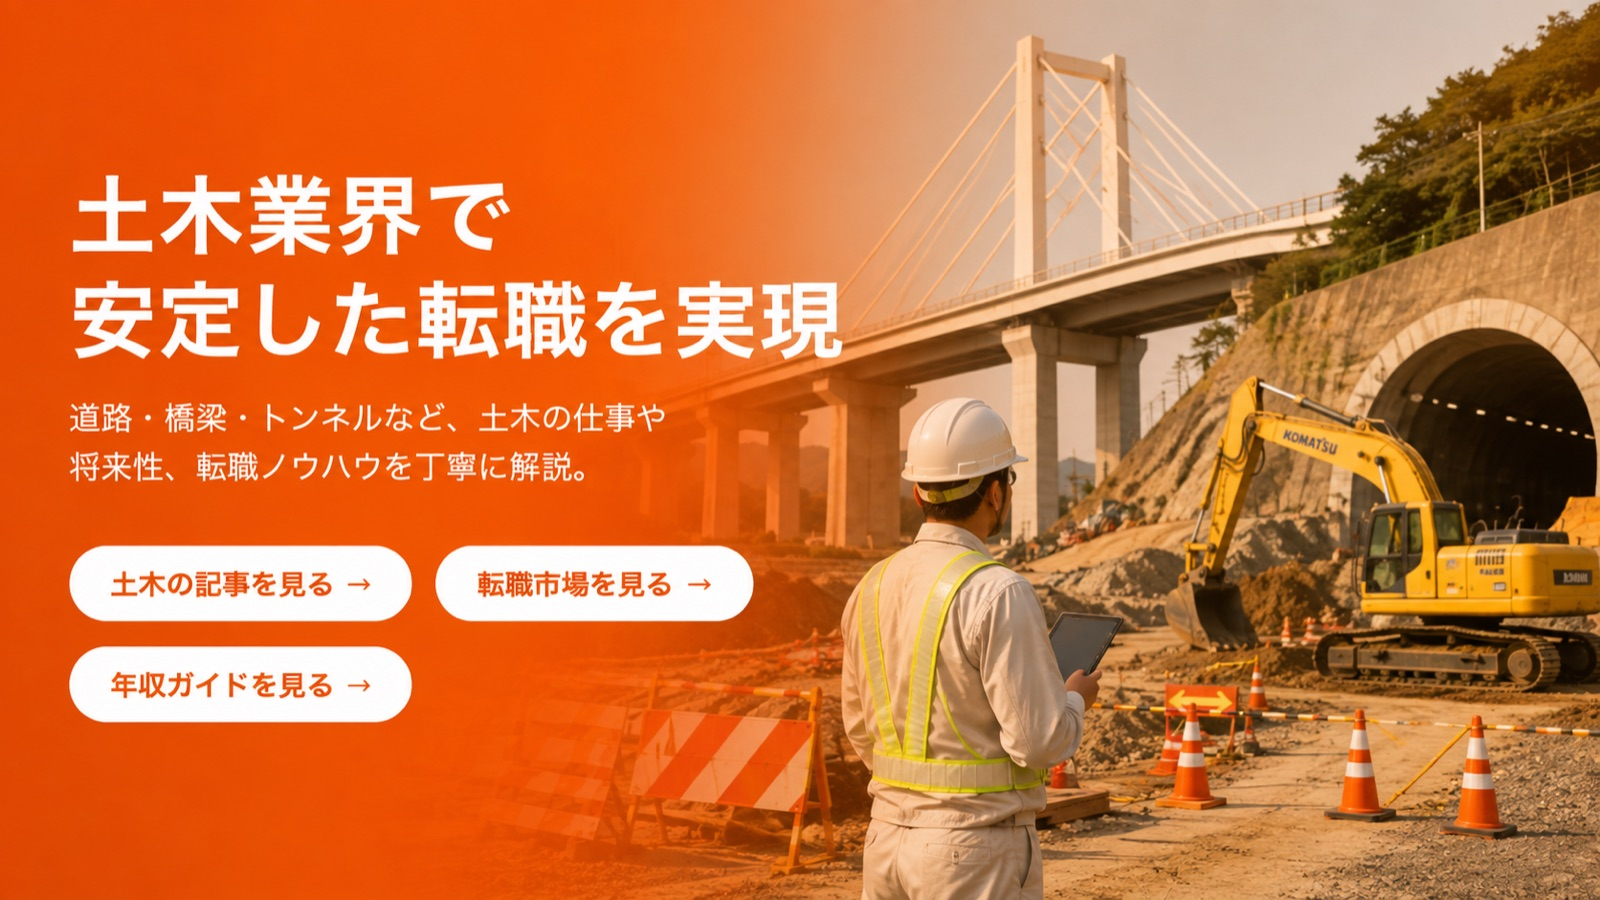
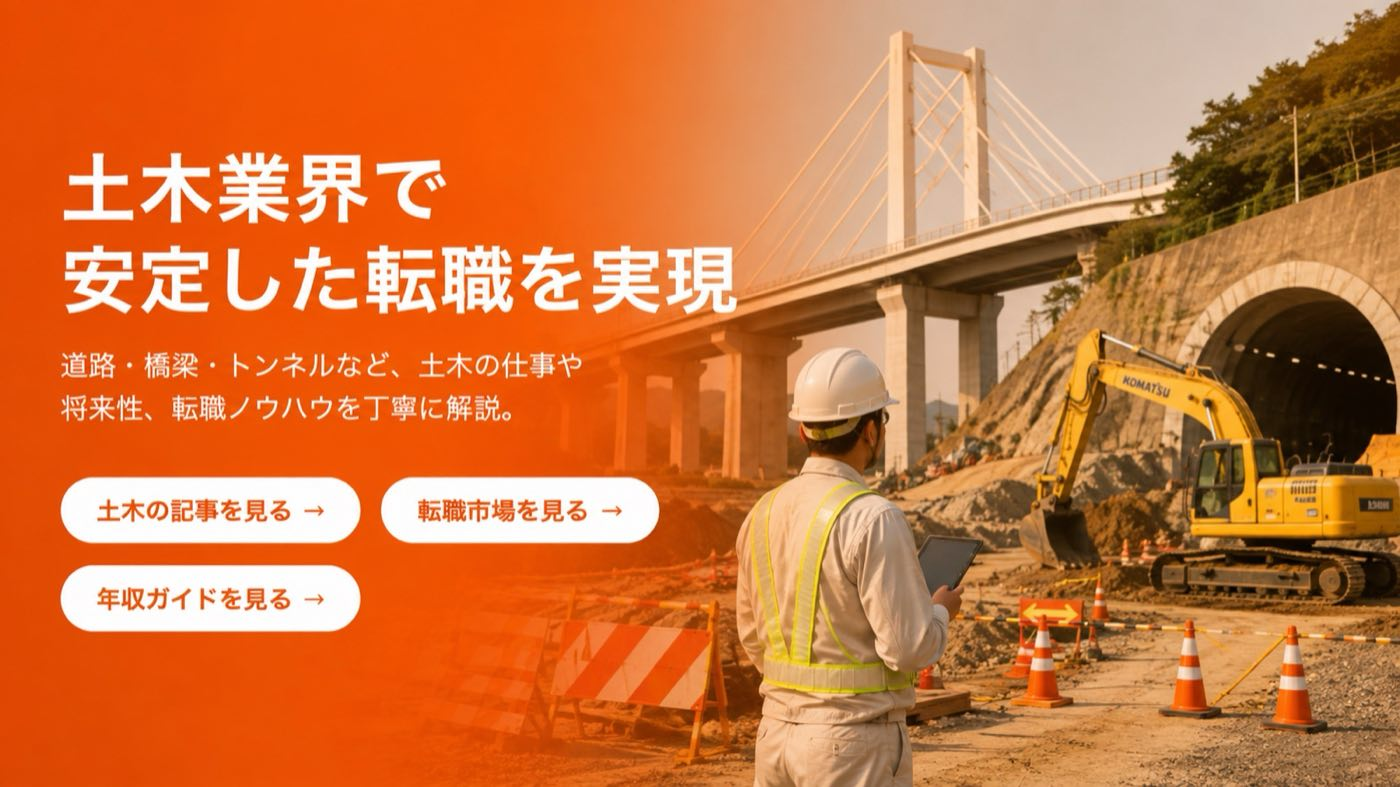
Perf + SEO fixes and 3 new articles
- Compress hero images 330-360KB -> 141-160KB (LCP fix)
- Retitle 土木ランキング to 2026年版9選; add internal links from 11 civil articles
- New: 長雨に強い仕事8選・土木の会社選び7チェック・倉庫物流ガイド

diff --git a/tools/add_text.py b/tools/add_text.py
@@ -74,6 +74,9 @@ TEXTS = {
     "plant-career": ("プラントで働く", "乙4から始まる高待遇の世界"),
     "gaikou-career": ("外構職人になる", "家まわりを仕上げる仕事"),
     "kasen-gogan-career": ("河川・護岸工事の仕事", "水害から街を守る"),
+    "nagame-osusume-shigoto": ("雨に強い仕事8選", "長雨でも収入が止まらない"),
+    "doboku-kaisha-erabi": ("土木の会社選び", "失敗しない7つのチェック"),
+    "soko-butsuryu-career": ("倉庫・物流で働く", "雨に強い屋内ワーク"),
 }
 
 def fit_font(draw, text, path, start, max_w):

diff --git a/content/posts/civil/doboku-kaisha-erabi.md b/content/posts/civil/doboku-kaisha-erabi.md
@@ -1,0 +1,70 @@
+---
+title: 土木の転職で失敗しない会社選び｜求人票と面接で見るべき7つのチェックポイント
+date: 2026-09-16
+excerpt: 同じ「土木作業員募集」でも、会社によって待遇と将来は大きく変わります。求人票の読み方から面接での質問まで、入ってから後悔しないための7つのチェックポイントを解説します。
+category: civil
+coverImage: /images/thumbs/doboku-kaisha-erabi.jpg
+tags: [会社選び, 求人票, 転職失敗回避, 土木]
+---
+
+## 職種選びの次は「会社選び」で差がつく
+
+[おすすめ職種ランキング](/blog/civil/doboku-osusume-shokushu)で入り口を決めたら、次は会社選びです。土木は**同じ職種でも会社によって「育ててくれる度合い」と「手取りの安定度」がまるで違う**業界。7つのチェックポイントで見極めましょう。
+
+## チェック1: 社会保険が完備されているか
+
+- 雇用保険・健康保険・厚生年金・労災の4点は**加入が大前提**
+- 「日給は高いが保険なし」の会社は、手取りが多く見えても長期では確実に損です([一人親方の損得](/blog/construction/hitorioyakata-guide)と同じ構図)
+- 求人票の「各種保険完備」の文言と、面接での「入社日から加入ですか」の確認をセットで
+
+## チェック2: 資格取得支援の「中身」
+
+「資格取得支援あり」は今や書いてあって当たり前。**中身を面接で聞く**のが本番です。
+
+- 費用は全額会社負担か、合格後の返金型か
+- **講習は勤務扱い(給料が出る)か、休日扱いか**
+- 直近1年で社員に取らせた資格の実績を聞くと、本気度が一発で分かります([最初に取るべき資格](/shikaku))
+
+## チェック3: 雨天・冬期の収入の扱い
+
+- 日給制なら**雨天休工時の扱い(無給か、手当か、振替作業か)**は最重要確認事項([長雨の時期の考え方](/blog/market/nagame-osusume-shigoto))
+- 月給制・日給月給制・稼働保証の有無で、年収の「ブレ幅」が決まります
+- [河川工事](/blog/civil/kasen-gogan-career)のように冬が本番の会社は、季節の谷が小さい傾向
+
+## チェック4: 工事の種類——公共が主体か
+
+- **公共工事主体の会社は、社会保険・安全管理・支払いが総じて堅実**(発注者のチェックが入るため)
+- 経営事項審査(経審)を受けている、施工実績に県や市の工事がある、が目印
+- 民間主体でも優良企業は多いですが、見極めの難易度は上がります
+
+## チェック5: 教育体制と若手の定着
+
+- 「未経験歓迎」なのに**教育係や研修の説明がない**会社は要注意
+- 面接で「入社後最初の1ヶ月は何をしますか」と聞いて、具体的に答えられるか
+- 20〜30代の社員が定着しているかは、職場環境の最良のバロメーターです
+
+## チェック6: 現場までの移動と拘束時間
+
+- 集合場所→現場の移動時間は**給料に含まれるか**(片道1時間超の無給移動は実質の時給を大きく下げます)
+- 直行直帰の可否、車両・燃料の負担も確認を
+
+## チェック7: 危険な匂いのする求人を避ける
+
+- 「日当3万円!未経験OK!」など**相場から浮いた好条件だけを連呼する求人**
+- 面接なしの即決、契約書を渡さない、現場や事務所を見せたがらない
+- 常に同じ求人が出続けている(=人が定着していない)
+
+[災害復旧](/blog/civil/saigai-fukkyu-jobs)などの特需時は特に、この手の募集が紛れ込みやすくなります。
+
+## 面接で聞いてよい質問リスト
+
+1. 「雨で休工の場合の給与の扱いを教えてください」
+2. 「資格取得支援は、講習日も出勤扱いになりますか」
+3. 「入社後の最初の1ヶ月の流れを教えてください」
+4. 「繁忙期の残業と休日はどのくらいですか」([土木の繁忙期](/blog/civil/autumn-doboku-season))
+
+これらは「意識の高い応募者」の質問であって、失礼ではありません。まともな会社ほど、きちんと答えてくれます。
+
+## まとめ
+
+土木の会社選びは「保険・資格支援の中身・雨天時の扱い・公共比率・教育・移動・危険な求人回避」の7チェックで、入社後の後悔をほぼ防げます。求人票で絞り、面接の質問で確かめる——[職種ランキング](/blog/civil/doboku-osusume-shokushu)と[職務経歴書ガイド](/blog/construction/resume-guide)、[面接対策](/blog/factory/factory-interview-guide)と合わせて、納得の転職につなげてください。

diff --git a/content/posts/factory/soko-butsuryu-career.md b/content/posts/factory/soko-butsuryu-career.md
@@ -1,0 +1,69 @@
+---
+title: 倉庫・物流センターの仕事ガイド｜雨に強い屋内ワーク、年末繁忙期前が入りどき
+date: 2026-09-16
+excerpt: ピッキング・仕分け・検品・フォークリフト——EC時代に伸び続ける倉庫・物流センターの仕事。時給相場とキャリアの伸ばし方、年末繁忙期前の今が狙い目の理由を解説します。
+category: factory
+coverImage: /images/thumbs/soko-butsuryu-career.jpg
+tags: [倉庫, 物流センター, ピッキング, 屋内作業]
+---
+
+## 倉庫・物流センターの仕事とは?
+
+ECの拡大で「モノを保管し、仕分け、送り出す」現場は増え続けています。主な仕事は:
+
+- **ピッキング**: リストやハンディ端末に従って商品を集める
+- **仕分け・梱包**: 方面別・店舗別に分け、梱包して出荷へ
+- **検品**: 入荷商品の数量・状態チェック([検査の仕事](/blog/factory/kensa-kenpin-career)と地続き)
+- **フォークリフト**: パレット単位の入出庫([フォークリフト完全ガイド](/blog/factory/forklift-career))
+- **在庫管理・事務**: ロケーション管理、入出荷データの処理
+
+**完全屋内+冷暖房のある倉庫も増えており、[長雨の時期](/blog/market/nagame-osusume-shigoto)も収入がブレない**のが現場系との大きな違いです。
+
+## 時給・年収の相場
+
+| 働き方 | 収入目安 |
+|--------|---------|
+| ピッキング・仕分け(未経験) | 時給1,150〜1,350円 |
+| フォークリフトオペレーター | 時給1,300〜1,700円 |
+| 夜勤帯(22時〜5時) | 上記+25%割増([夜勤の実際](/blog/factory/night-shift-guide)) |
+| 正社員(現場リーダー) | 年収350〜450万円 |
+| センター管理者・運行管理 | 年収450〜600万円 |
+
+10月からの[最低賃金発効](/blog/factory/jikyu-up-checklist)で時給帯は全体に底上げされます。**繁忙期は時給アップ・入社祝い金つきの募集も増える**ため、比較して選べる時期です。
+
+## なぜ「年末繁忙期前の今」が入りどきなのか
+
+物流の最繁忙期は**11月〜12月**(セール・歳暮・クリスマス・年末年始準備)です。
+
+1. **9〜10月は増員採用の最盛期**: 繁忙期を教育済みの人員で迎えたい会社が、今まとめて採用します
+2. **落ち着いた時期に仕事を覚えられる**: 11月に入ってからの入社だと、いきなり戦場です
+3. **短期で試せる**: 繁忙期だけの短期契約から入り、合えば長期・正社員へ切り替える道も定番です
+
+[年末商戦に向けた工場の動き](/blog/factory/september-factory-jobs)と同じ理屈で、**逆算するなら今月の応募がベスト**です。
+
+## キャリアの伸ばし方
+
+倉庫は「誰でも入れるが、伸ばし方で差がつく」職場です。
+
+1. **フォークリフト資格を取る**: 時給が一段上がり、任される仕事が変わる。最大4〜5日の講習([取り方](/blog/factory/forklift-career))
+2. **リーダー・管理側へ**: 人員配置・進捗管理を担う現場リーダーから、センター管理者へ
+3. **在庫・データ側へ**: ハンディやWMS(倉庫管理システム)の扱いに強くなると、事務系へ広がる([生産管理](/blog/factory/seisan-kanri-career)と似た「現場を知る管理側」ルート)
+4. **運行管理者(貨物)**: トラック運行の管理資格。物流業界で長く効く国家資格です
+
+## 大変な面と向いている人
+
+### 大変な面
+
+- 歩く量が多い(ピッキングは1日1万歩超も普通。逆に運動になると割り切る人も)
+- 繁忙期は物量との勝負になる
+- 冷凍・冷蔵倉庫は寒さ対策が必要(その分時給は高め)
+
+### 向いている人
+
+- 天候や現場ガチャに左右されず、**安定したペースで働きたい**
+- 黙々と体を動かす仕事が好き
+- 資格や役割で着実にステップアップしたい
+
+## まとめ
+
+倉庫・物流センターは、EC時代に仕事が増え続ける「雨に強い屋内ワーク」です。年末繁忙期前の9〜10月は採用の最盛期で、教育を受けながら入れる残り少ないタイミング。まずはピッキングから入り、フォークリフト資格で時給を上げ、リーダー・管理側へ——という積み上げがしやすい、堅実な選択肢です。工場系全体との比較は[工場転職完全ガイド](/blog/factory/job-beginners-guide)をどうぞ。

diff --git a/content/posts/market/nagame-osusume-shigoto.md b/content/posts/market/nagame-osusume-shigoto.md
@@ -1,0 +1,52 @@
+---
+title: 長雨で現場が止まる…雨に強い仕事・案件おすすめ8選｜日給制の収入を守る方法も
+date: 2026-09-16
+excerpt: 秋雨や台風で休工が続くと、日給制の収入は直撃を受けます。雨でも止まらない屋内系の仕事・案件8選と、今の仕事のまま収入を守る現実的な対策をまとめました。
+category: market
+coverImage: /images/thumbs/nagame-osusume-shigoto.jpg
+tags: [長雨, 雨天休工, 屋内作業, 収入安定]
+---
+
+## 長雨の時期、日給制の現場は収入が直撃される
+
+秋雨前線や台風で雨の日が続くと、屋外の現場は休工が増えます。月給制なら影響は限定的ですが、**日給制・日給月給制では「雨の日数=収入減」**が現実です([休工時の給料の考え方](/blog/construction/typhoon-genba-guide))。
+
+この記事では、**雨に左右されにくい仕事・案件8選**と、今の仕事を変えずに収入を守る方法をまとめます。
+
+## 雨に強い仕事・案件8選
+
+### 屋内でほぼ完結する仕事
+
+1. **[内装仕上げ](/blog/construction/naiso-career)**: クロス・床・ボード。建物の中の仕事なので雨でも工程が止まらない、雨に強い職人職の代表格
+2. **[電気工事(屋内)](/blog/construction/electrician-career)**: 屋内配線・器具付けは天候の影響が小さい。資格が要る分、単価も安定
+3. **[ビル設備管理](/blog/construction/building-mente-career)**: 完全屋内+月給制。天候リスクと無縁の代表
+4. **[工場勤務全般](/blog/factory/job-beginners-guide)**: 製造・[検査](/blog/factory/kensa-kenpin-career)は屋内+時給/月給制。年末増産期([9月からの求人動向](/blog/factory/september-factory-jobs))で募集も多い
+5. **[倉庫・物流センター](/blog/factory/soko-butsuryu-career)**: 屋内作業+[フォークリフト](/blog/factory/forklift-career)資格で時給が伸びる。雨の日も物流は止まりません
+
+### 「雨でも動く」現場仕事
+
+6. **[トンネル坑内](/blog/civil/tunnel-worker)**: 坑内は天候と無関係。「雨でも仕事が止まらない高日当」の代表
+7. **屋内解体・改修**: ビル内部のスケルトン解体や[防水の下地処理](/blog/construction/bousui-career)など、屋根の下の工程が中心の案件
+8. **建物内の設備メンテ・点検**: [設備保全](/blog/factory/maintenance-career)や消防設備点検など、雨期も予定通り進む仕事
+
+## 今の仕事のまま収入を守る3つの方法
+
+転職まではしない人向けの現実策です。
+
+1. **「雨天時の扱い」を会社と確認・交渉する**: 月◯日分の稼働保証、雨の日の倉庫作業・段取り仕事への振替など、制度がある会社は実在します。次の現場から交渉する価値あり
+2. **休業手当の知識を持つ**: 会社判断の休みは平均賃金6割以上の休業手当の対象になり得ます。「雨だから無給で当然」と思い込まないこと([詳しい線引き](/blog/construction/typhoon-genba-guide))
+3. **雨の日を「資格の日」にする**: 休工日を[秋の資格試験](/blog/factory/shikaku-exam-autumn)の勉強や[講習系資格](/blog/construction/late-august-license-course)に充てれば、雨が将来の日当アップに変わります
+
+## 長雨は「屋内系へ動く」検討のタイミング
+
+毎年秋の長雨・台風のたびに収入が不安定になるなら、**屋内系職種への転換を検討するサイン**かもしれません。
+
+- 体力に不安が出てきた人は[ビルメン](/blog/construction/building-mente-career)や[検査](/blog/factory/kensa-kenpin-career)へ
+- 現場の腕を活かすなら[内装](/blog/construction/naiso-career)や屋内設備へ
+- 稼ぎ優先なら[トンネル](/blog/civil/tunnel-worker)や[プラント](/blog/factory/plant-career)へ
+
+書類の準備は雨の日でもできます。[履歴書かんたん作成ツール](/rirekisho)なら質問に答えるだけで完成します。
+
+## まとめ
+
+長雨の時期に強いのは「屋根の下で完結する仕事」——内装・電気・ビルメン・工場・倉庫、そして坑内という選択肢もあります。今の仕事を続けるなら、雨天時の扱いの確認と休業手当の知識、雨の日の資格勉強で守りを固めましょう。毎年雨に泣かされているなら、屋内系への転身を考える合図です。

diff --git a/content/posts/civil/doboku-osusume-shokushu.md b/content/posts/civil/doboku-osusume-shokushu.md
@@ -1,7 +1,7 @@
 ---
-title: 土木の転職おすすめ職種ランキング｜未経験の入りやすさ・収入・将来性で徹底比較
+title: 【2026年版】土木の転職おすすめ職種ランキング9選｜未経験の入りやすさ・収入・将来性で比較
 date: 2026-08-26
-excerpt: 土木への転職でおすすめの職種はどれ?未経験の入りやすさ・収入・将来性の3軸で9職種をランキング形式で比較。自分に合う入り口の選び方を解説します。
+excerpt: 土木への転職はどの職種がおすすめ?未経験の入りやすさ・収入・将来性の3軸で9職種をランキング比較。年収相場と最初に取る資格、自分に合う入り口の選び方まで2026年の最新事情で解説します。
 category: civil
 coverImage: /images/thumbs/doboku-osusume-shokushu.jpg
 tags: [土木, おすすめ職種, ランキング, 未経験]

diff --git a/content/posts/civil/tunnel-worker.md b/content/posts/civil/tunnel-worker.md
@@ -90,3 +90,4 @@ tags: [トンネル工事, シールド, 坑内作業, 高収入]
 ## まとめ
 
 トンネル工事は、土木の中でも高日当・手当充実・宿舎完備という「稼げる条件」がそろった専門分野です。閉鎖空間や住み込みという特殊性はありますが、経験を積んだ坑内職人の市場価値は非常に高く、リニアやインフラ更新で仕事も長期的に続きます。「どうせ現場で働くなら専門性で稼ぎたい」という方に検討してほしい仕事です。
+土木の職種選び全体は[おすすめ職種ランキング](/blog/civil/doboku-osusume-shokushu)で比較できます。

diff --git a/content/posts/civil/crane-operator.md b/content/posts/civil/crane-operator.md
@@ -68,3 +68,4 @@ tags: [クレーンオペレーター, 移動式クレーン, 免許, 高収入]
 ## まとめ
 
 クレーンオペレーターは、免許という明確な参入資格と「大きい機械ほど稼げる」明快なキャリア構造を持つ技術職です。体への負担が比較的軽く長く働けるうえ、再開発・インフラ更新でクレーンの仕事は途切れません。免許取得支援のある会社を選び、玉掛けから着実にステップアップしていきましょう。
+土木の職種選び全体は[おすすめ職種ランキング](/blog/civil/doboku-osusume-shokushu)で比較できます。

diff --git a/content/posts/civil/jogesuido-career.md b/content/posts/civil/jogesuido-career.md
@@ -67,3 +67,4 @@ tags: [上下水道, 管布設, インフラ, 老朽化対策]
 ## まとめ
 
 上下水道工事は、老朽化対策という「終わらない更新需要」に支えられた、土木の中でも特に安定した分野です。玉掛け・車両系から入り、水道系の登録資格と施工管理技士を積めば、公共工事を担う技術者として長く稼げます。派手さはなくても、生活インフラを守る誇りと安定を両立できる仕事です。
+土木の職種選び全体は[おすすめ職種ランキング](/blog/civil/doboku-osusume-shokushu)で比較できます。

diff --git a/content/posts/civil/tekkin-career.md b/content/posts/civil/tekkin-career.md
@@ -63,3 +63,4 @@ tags: [鉄筋工, 躯体, 技能士, 人手不足]
 ## まとめ
 
 鉄筋工は、求人倍率7倍超の売り手市場で「構造物の強度を担う」誇りある専門職です。体力面のハードルはありますが、その分日当は高めで、技能士→基幹技能者→独立と収入の階段が明確です。未経験者は資格取得支援と社会保険完備の会社を選び、玉掛けなどの講習資格から積み上げていきましょう。
+土木の職種選び全体は[おすすめ職種ランキング](/blog/civil/doboku-osusume-shokushu)で比較できます。

diff --git a/content/posts/civil/doboku-beginners-guide.md b/content/posts/civil/doboku-beginners-guide.md
@@ -66,3 +66,4 @@ tags: [未経験, 土木作業員, キャリアパス, 1日の流れ]
 ## まとめ
 
 土木作業員は、未経験からでも数日講習の資格を積み重ねることで着実に収入が伸びる仕事です。インフラ需要は途切れることがなく、人手不足の今は未経験者にとって最良のタイミングと言えます。まずは資格取得支援と社会保険完備の会社を選び、最初の一歩を踏み出しましょう。
+土木の職種選び全体は[おすすめ職種ランキング](/blog/civil/doboku-osusume-shokushu)で比較できます。

diff --git a/content/posts/civil/demolition-worker.md b/content/posts/civil/demolition-worker.md
@@ -57,3 +57,4 @@ tags: [解体工, 空き家, 重機, 解体工事施工技士]
 ## まとめ
 
 解体工は、空き家時代を背景に需要が伸び続ける「なくならない仕事」です。未経験から入りやすく、重機資格と石綿関連資格を積み上げれば年収500万円超も現実的です。分別・安全管理の丁寧さが評価される時代になっているので、しっかりした会社を選んで技術を磨いていきましょう。
+土木の職種選び全体は[おすすめ職種ランキング](/blog/civil/doboku-osusume-shokushu)で比較できます。

diff --git a/content/posts/civil/paving-worker.md b/content/posts/civil/paving-worker.md
@@ -64,3 +64,4 @@ tags: [舗装工, アスファルト, 道路工事, 舗装施工管理技術者]
 ## まとめ
 
 舗装工は、道路インフラの維持に欠かせない安定した需要を持つ職種です。夏の暑さという明確なハードルはあるものの、重機資格と舗装施工管理技術者を積み上げれば着実に年収を伸ばせます。「自分が舗装した道路」が形として残る、ものづくりの実感が大きい仕事です。
+土木の職種選び全体は[おすすめ職種ランキング](/blog/civil/doboku-osusume-shokushu)で比較できます。
